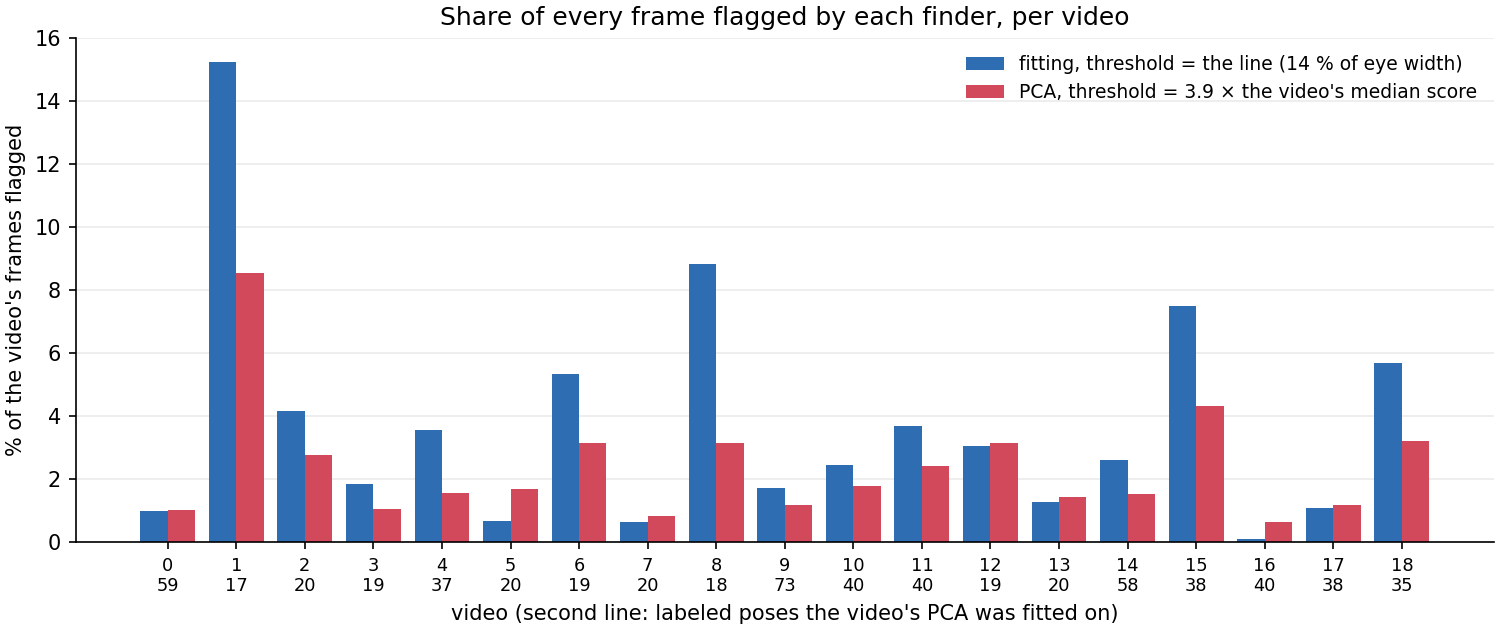
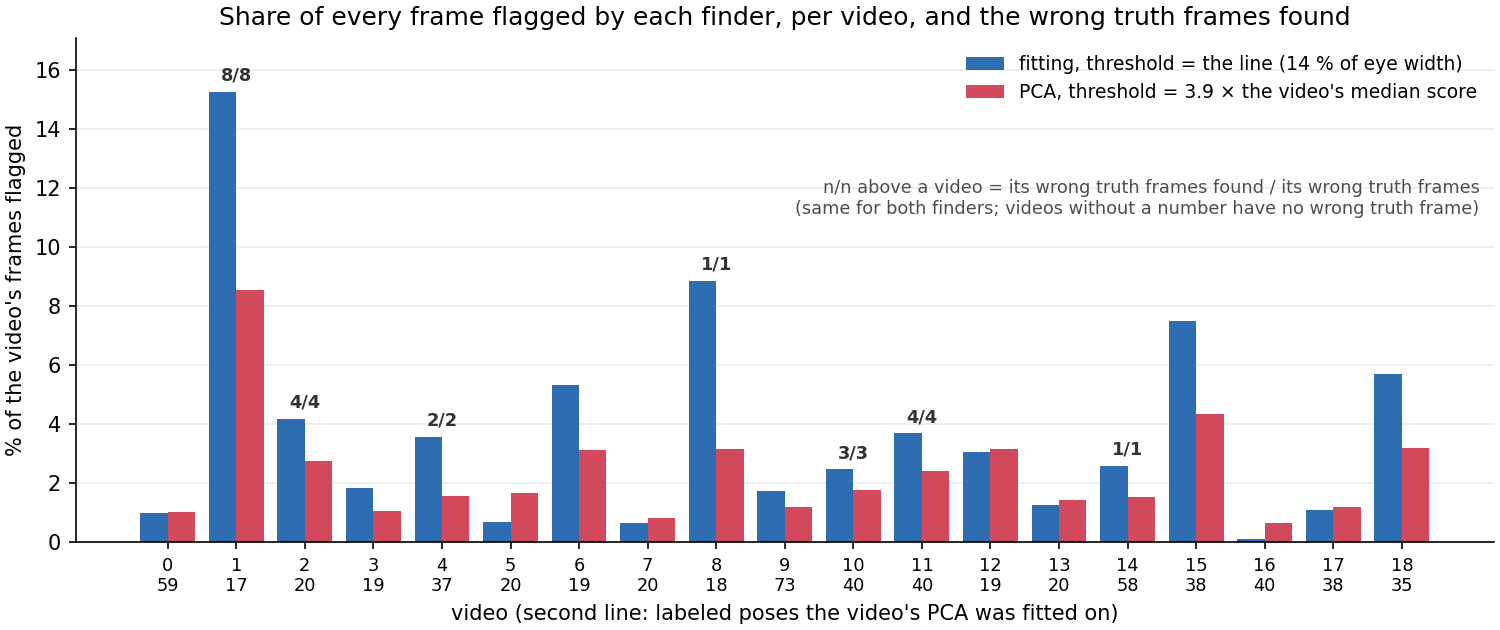
Figure 9-4: wrong truth frames found per video added

diff --git a/report/index.html b/report/index.html
@@ -78,7 +78,7 @@ math[display="block"]{margin:10px 0 6px;text-align:left;overflow-x:auto;max-widt
 
 <header>
   <h1><span lang="zh">小鼠眼睛关键点追踪：做了什么，结果是什么</span><span lang="en">Mouse eye keypoint tracking: what was done and what came out</span></h1>
-  <p class="muted small">Zhiheng Li (University of Minnesota), Kaiwen Sheng (Stanford) · <span lang="zh">页面生成时间</span><span lang="en">page built</span> 2026-10-31 14:52 · <a href="https://github.com/ZhihengLi0/mouse-behavior-tracking">GitHub: ZhihengLi0/mouse-behavior-tracking</a></p>
+  <p class="muted small">Zhiheng Li (University of Minnesota), Kaiwen Sheng (Stanford) · <span lang="zh">页面生成时间</span><span lang="en">page built</span> 2026-10-31 15:00 · <a href="https://github.com/ZhihengLi0/mouse-behavior-tracking">GitHub: ZhihengLi0/mouse-behavior-tracking</a></p>
 
   <div class="text" lang="zh">
     <p><b>任务：</b>用 DeepLabCut 在小鼠眼睛视频的每一帧上找 8 个点：瞳孔上、下、左、右，上眼睑、下眼睑，鼻侧眼角、颞侧眼角。由这 8 个点得到瞳孔大小、眼睛睁开程度和眨眼，之后与脑记录对齐。</p>
@@ -1142,8 +1142,8 @@ math[display="block"]{margin:10px 0 6px;text-align:left;overflow-x:auto;max-widt
   </figure>
   <figure>
     <div class="figbox wide"><img src="assets/fig_finders_share.png" alt="Share of every frame flagged by fitting and by the PCA, per video"></div>
-    <figcaption lang="zh"><span class="tag">图 9-4：</span>整段视频上两种信号各标出多少帧，按视频；横轴第二行是该视频的 PCA 用的标注姿态数。fitting 的阈值是线，PCA 的阈值是本视频中位数的 3.9 倍。</figcaption>
-    <figcaption lang="en"><span class="tag">Figure 9-4:</span>Share of every frame flagged by each signal, per video; the second line of the axis gives the labeled poses the video's PCA was fitted on. Fitting at the line, the PCA at 3.9 × the video's median.</figcaption>
+    <figcaption lang="zh"><span class="tag">图 9-4：</span>按定好的阈值直接跑，整段视频上两种信号各标出多少比例的帧，按视频，这就是实际要人去看的量；横轴第二行是该视频的 PCA 用的标注姿态数。柱子上方的 n/n 是该视频真值帧里的错帧有几帧被找到，两种信号都全部找到，没有数字的视频没有错帧。</figcaption>
+    <figcaption lang="en"><span class="tag">Figure 9-4:</span>Run with the thresholds as set, the share of every frame each signal flags, per video, which is what a person would have to look at; the second line of the axis gives the labeled poses the video's PCA was fitted on. The n/n above a video: how many of its wrong truth frames were found, all of them by both signals; videos without a number have no wrong truth frame.</figcaption>
   </figure>
   <figure>
     <div class="figbox"><img src="assets/fig_finder_disagreement.png" alt="By-eye verdicts on frames flagged by only one of the two finders"></div>

diff --git a/report/index_en.html b/report/index_en.html
@@ -75,7 +75,7 @@ math[display="block"]{margin:10px 0 6px;text-align:left;overflow-x:auto;max-widt
 
 <header>
   <h1><span lang="en">Mouse eye keypoint tracking: what was done and what came out</span></h1>
-  <p class="muted small">Zhiheng Li (University of Minnesota), Kaiwen Sheng (Stanford) · <span lang="en">page built</span> 2026-10-31 14:52 · <a href="https://github.com/ZhihengLi0/mouse-behavior-tracking">GitHub: ZhihengLi0/mouse-behavior-tracking</a></p>
+  <p class="muted small">Zhiheng Li (University of Minnesota), Kaiwen Sheng (Stanford) · <span lang="en">page built</span> 2026-10-31 15:00 · <a href="https://github.com/ZhihengLi0/mouse-behavior-tracking">GitHub: ZhihengLi0/mouse-behavior-tracking</a></p>
 
   
   <div class="text" lang="en">
@@ -879,7 +879,7 @@ math[display="block"]{margin:10px 0 6px;text-align:left;overflow-x:auto;max-widt
   <figure>
     <div class="figbox wide"><img src="assets/fig_finders_share.png" alt="Share of every frame flagged by fitting and by the PCA, per video"></div>
     
-    <figcaption lang="en"><span class="tag">Figure 9-4:</span>Share of every frame flagged by each signal, per video; the second line of the axis gives the labeled poses the video's PCA was fitted on. Fitting at the line, the PCA at 3.9 × the video's median.</figcaption>
+    <figcaption lang="en"><span class="tag">Figure 9-4:</span>Run with the thresholds as set, the share of every frame each signal flags, per video, which is what a person would have to look at; the second line of the axis gives the labeled poses the video's PCA was fitted on. The n/n above a video: how many of its wrong truth frames were found, all of them by both signals; videos without a number have no wrong truth frame.</figcaption>
   </figure>
   <figure>
     <div class="figbox"><img src="assets/fig_finder_disagreement.png" alt="By-eye verdicts on frames flagged by only one of the two finders"></div>

diff --git a/report/template.html b/report/template.html
@@ -1034,8 +1034,8 @@ math[display="block"]{margin:10px 0 6px;text-align:left;overflow-x:auto;max-widt
   </figure>
   <figure>
     <div class="figbox wide"><img src="assets/fig_finders_share.png" alt="Share of every frame flagged by fitting and by the PCA, per video"></div>
-    <figcaption lang="zh"><span class="tag">图 9-4：</span>整段视频上两种信号各标出多少帧，按视频；横轴第二行是该视频的 PCA 用的标注姿态数。fitting 的阈值是线，PCA 的阈值是本视频中位数的 3.9 倍。</figcaption>
-    <figcaption lang="en"><span class="tag">Figure 9-4:</span>Share of every frame flagged by each signal, per video; the second line of the axis gives the labeled poses the video's PCA was fitted on. Fitting at the line, the PCA at 3.9 × the video's median.</figcaption>
+    <figcaption lang="zh"><span class="tag">图 9-4：</span>按定好的阈值直接跑，整段视频上两种信号各标出多少比例的帧，按视频，这就是实际要人去看的量；横轴第二行是该视频的 PCA 用的标注姿态数。柱子上方的 n/n 是该视频真值帧里的错帧有几帧被找到，两种信号都全部找到，没有数字的视频没有错帧。</figcaption>
+    <figcaption lang="en"><span class="tag">Figure 9-4:</span>Run with the thresholds as set, the share of every frame each signal flags, per video, which is what a person would have to look at; the second line of the axis gives the labeled poses the video's PCA was fitted on. The n/n above a video: how many of its wrong truth frames were found, all of them by both signals; videos without a number have no wrong truth frame.</figcaption>
   </figure>
   <figure>
     <div class="figbox"><img src="assets/fig_finder_disagreement.png" alt="By-eye verdicts on frames flagged by only one of the two finders"></div>

diff --git a/v2_new_pupil_top_video_scaling/scripts/finder_repair_comparison.py b/v2_new_pupil_top_video_scaling/scripts/finder_repair_comparison.py
@@ -107,11 +107,23 @@ def main():
     xs = np.arange(19)
     ax.bar(xs - 0.2, fit_s.reindex(range(19)), 0.4, color="#2f6db3", label="fitting, threshold = the line (14 % of eye width)")
     ax.bar(xs + 0.2, pca_s.reindex(range(19)), 0.4, color="#d1495b", label="PCA, threshold = 3.9 × the video's median score")
+    # wrong truth frames of each video and how many each finder found
+    wf = Pv[Pv.finder == "fit"].set_index("video"); wp = Pv[Pv.finder == "pca"].set_index("video")
+    top = max(fit_s.max(), pca_s.max())
+    for v in range(19):
+        n = int(wf.wrong_before[v])
+        if n == 0:
+            continue
+        a_, b_ = int(wf.wrong_flagged[v]), int(wp.wrong_flagged[v])
+        txt = f"{a_}/{n}" if a_ == b_ else f"{a_}/{n} | {b_}/{n}"
+        ax.text(v, max(fit_s[v], pca_s[v]) + 0.25, txt, ha="center", va="bottom", fontsize=8.5, color="0.2", fontweight="bold")
+    ax.text(0.99, 0.72, "n/n above a video = its wrong truth frames found / its wrong truth frames\n(same for both finders; videos without a number have no wrong truth frame)", transform=ax.transAxes, ha="right", va="top", fontsize=8.5, color="0.3")
+    ax.set_ylim(0, top * 1.12)
     ax.set_xticks(xs)
     ax.set_xticklabels([f"{v}\n{int(lab.labels_seen[v])}" for v in range(19)], fontsize=8.5)
     ax.set_xlabel("video (second line: labeled poses the video's PCA was fitted on)")
     ax.set_ylabel("% of the video's frames flagged")
-    ax.set_title("Share of every frame flagged by each finder, per video")
+    ax.set_title("Share of every frame flagged by each finder, per video, and the wrong truth frames found")
     ax.spines[["top", "right"]].set_visible(False)
     ax.grid(axis="y", color="0.92")
     ax.set_axisbelow(True)
